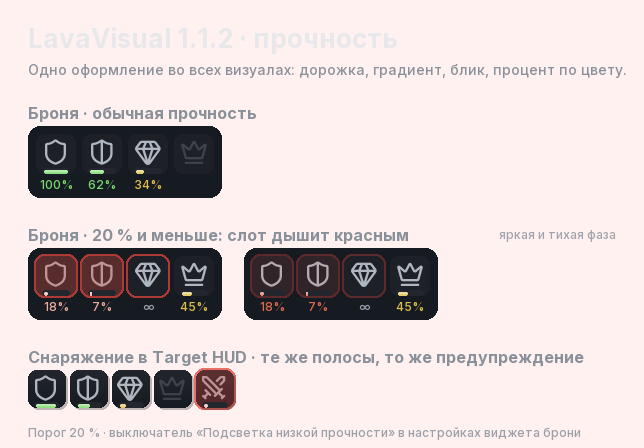
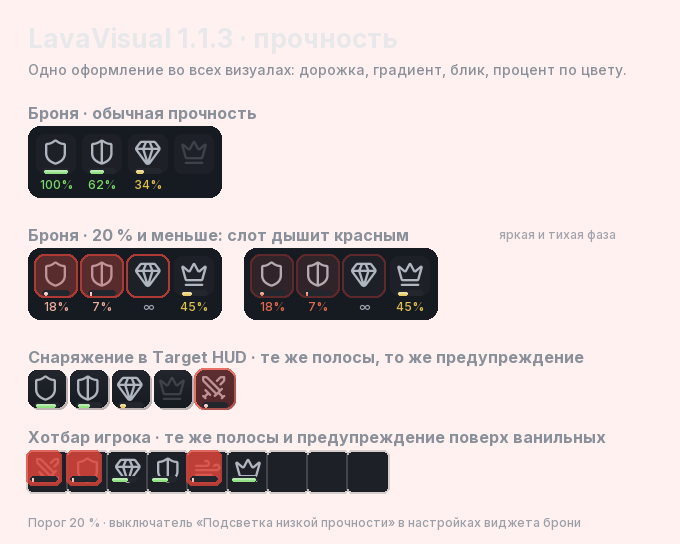
Прочность 1.1.3: украшенные полосы и предупреждение в хотбаре игрока
- hud/HudRenderer.java (все три порта): новый hotbarDurability() рисует поверх ванильного хотбара
  ту же полосу, что броня и снаряжение (дорожка 14x3, градиент, блик), и то же предупреждение:
  при 20 % и меньше слот дышит красным (рамка + подсветка), цвет светлеет по пульсу; только у
  повреждённых предметов, уважает hideGui, спектатора и выключатель durabilityWarn;
- LavaVisualClient.java: слой после VanillaHudElements.HOTBAR в 26.2 и 1.21.11, вызов в
  HudRenderCallback в 1.21.4 (там колбэк идёт уже после ванильного HUD);
- SmokeWorld.java (26.2, 1.21.11): этап HOTBAR_AT кладёт в слоты повреждённые кирку, нагрудник,
  меч, щит и элитры (плюс целый меч и стопку яблок) и просит кадр world_hotbar — проверка в CI;
- версии 1.1.3, README, release-notes и OVERVIEW обновлены, макет tools/preview_durability.py
  дополнен рядом хотбара.

Changed region(s): [[0.0311, 0.125, 0.9627, 1.0], [0.7764, 0.5, 0.9627, 0.5312], [0.7453, 0.4062, 0.9006, 0.4375]]

diff --git a/tools/preview_durability.py b/tools/preview_durability.py
@@ -5,8 +5,9 @@ The HUD cannot be looked at without launching Minecraft, and the strips live dee
 draws them with PIL instead, using exactly the geometry and the colours of the mod: the armour widget (4 slots of
 20 x 20 with a step of 23), the equipment strip of the Target HUD (slots of 19 x 19 with a step of 21), the track of
 14 x 3 and 13 x 3, the one-unit highlight, the percent text, and the low-durability warning (the red rim stays under the
-slot plate, the breathing wash goes over the item, the percent brightens with the pulse). The pulse is drawn at its
-brightest phase.
+slot plate, the breathing wash goes over the item, the percent brightens with the pulse). The hotbar slots of the
+player are drawn the same way, over the vanilla hotbar: 20 px step, 16 px icon, the strip at the bottom of the icon.
+The pulse is drawn at its brightest phase.
 
     python3 tools/preview_durability.py [out.png (default docs/durability-preview.png)]
 
@@ -90,6 +91,25 @@ def gear_slot(view, x, y, ratio, pulse=1.0, warn=True, sprite=None):
     view.rr(x + 4, y + 17, fill, 1, 0, 0xFFFFFF, 0.35)
 
 
+def hotbar_slot(view, x, y, ratio, pulse=1.0, warn=True, icon=None):
+    """One hotbar slot of the player, in the order of HudRenderer.hotbarDurability()."""
+    low = ratio is not None and ratio >= 0 and ratio <= 0.2 and warn
+    view.rr(x - 1, y - 1, 22, 22, 3, 0x8B8B8B, 0.35)
+    view.rr(x, y, 20, 20, 2, 0x1D2027, 1.0)
+    if icon:
+        view.icon(icon, x + 3, y + 2, 14, 0xC9D0DA, 0.85)
+    if ratio is None or ratio < 0:
+        return
+    if low:
+        view.rr(x - 1, y - 1, 18, 18, 3, WARN, 0.35 + 0.4 * pulse)
+        view.rr(x, y, 16, 16, 2, WARN, 0.10 + 0.20 * pulse)
+    color = shown(durability(ratio), pulse) if low else durability(ratio)
+    view.rr(x + 1, y + 12, 14, 3, 1, TRACK)
+    bar = max(1, round(12 * ratio))
+    view.rrh(x + 2, y + 13, bar, 2, 1, color, mix(color, 0xFFFFFF, 0.35))
+    view.rr(x + 2, y + 13, bar, 1, 0, 0xFFFFFF, 0.35)
+
+
 def armor_widget(view, x, y, ratios, pulse=1.0, warn=True):
     view.rr(x, y, 97, 36, 6, PANEL)
     for i, ratio in enumerate(ratios):
@@ -103,10 +123,10 @@ def gear_strip(view, x, y, ratios, pulse=1.0, warn=True):
 
 def main():
     out = Path(sys.argv[1]) if len(sys.argv) > 1 else OUT
-    view = View(322, 224)
-    view.img.paste(0x101319FF, (0, 0, 322 * SS, 224 * SS))
+    view = View(340, 272)
+    view.img.paste(0x101319FF, (0, 0, 340 * SS, 272 * SS))
 
-    view.text(14, 12, 'LavaVisual 1.1.2 · прочность', TEXT, 1.0, size=13, bold=True)
+    view.text(14, 12, 'LavaVisual 1.1.3 · прочность', TEXT, 1.0, size=13, bold=True)
     view.text(14, 31, 'Одно оформление во всех визуалах: дорожка, градиент, блик, процент по цвету.', DIM, 1.0, size=7)
 
     view.text(14, 52, 'Броня · обычная прочность', DIM, 1.0, size=8, bold=True)
@@ -120,7 +140,12 @@ def main():
     view.text(14, 174, 'Снаряжение в Target HUD · те же полосы, то же предупреждение', DIM, 1.0, size=8, bold=True)
     gear_strip(view, 14, 185, [0.9, 0.55, 0.3, None, 0.15])
 
-    view.text(14, 213, 'Порог 20 % · выключатель «Подсветка низкой прочности» в настройках виджета брони', DIM, 0.85, size=6)
+    view.text(14, 214, 'Хотбар игрока · те же полосы и предупреждение поверх ванильных', DIM, 1.0, size=8, bold=True)
+    hotbar = [(0.10, 'SWORDS'), (0.12, 'SHIELD'), (0.70, 'GEM'), (0.64, 'SHIELD_HALF'), (0.06, 'WIND'), (1.0, 'CROWN'), (None, 'APPLE'), (None, None), (None, None)]
+    for i, (ratio, icon) in enumerate(hotbar):
+        hotbar_slot(view, 14 + i * 20, 226, ratio, 1.0, True, icon)
+
+    view.text(14, 258, 'Порог 20 % · выключатель «Подсветка низкой прочности» в настройках виджета брони', DIM, 0.85, size=6)
     view.img.save(out)
     print(f'{out} -> {out.stat().st_size // 1024} KB')
 

diff --git a/ports/mc26.2/src/main/java/tech/gulp/lavavisual/SmokeWorld.java b/ports/mc26.2/src/main/java/tech/gulp/lavavisual/SmokeWorld.java
@@ -16,7 +16,8 @@ final class SmokeWorld {
             DUMMY_AT = HATS_AT + HATS.length * HAT_STEP + 10, HANDS_AT = DUMMY_AT + 70, CRIT_AT = HANDS_AT + 50,
             TRAIL_AT = CRIT_AT + 50, ZOOM_AT = TRAIL_AT + 95, FREE_AT = ZOOM_AT + 40, WINGS_EDIT_AT = FREE_AT + 40,
             MAP_AT = WINGS_EDIT_AT + 45, SOUND_AT = MAP_AT + 110, MUSIC_AT = SOUND_AT + 12, FORMATS_AT = MUSIC_AT + 72, TIME_AT = FORMATS_AT + 104, ITEMS_AT = TIME_AT + 80,
-            PROJ_AT = ITEMS_AT + 70, OUTFIT_AT = PROJ_AT + 50, SHOTS_AT = OUTFIT_AT + 94, END_AT = SHOTS_AT + 234;
+            PROJ_AT = ITEMS_AT + 70, OUTFIT_AT = PROJ_AT + 50, SHOTS_AT = OUTFIT_AT + 94, HOTBAR_AT = SHOTS_AT + 216,
+            END_AT = SHOTS_AT + 264;
     private static float walkLift;
     private static double p1, p2, p3, p4;
     private static boolean musicPlaying, musicPaused, musicStable, musicSeek, musicNext, musicPrevious;
@@ -468,6 +469,20 @@ final class SmokeWorld {
         if (ticks == SHOTS_AT + 170) mc.gui.setScreen(new net.minecraft.client.gui.screens.multiplayer.JoinMultiplayerScreen(null));
         if (ticks == SHOTS_AT + 200) LavaVisual.LOGGER.info("LavaVisual smoke shot world_servers");
         if (ticks == SHOTS_AT + 214) { mc.gui.setScreen(null); c.extras.clear(); mc.options.setCameraType(CameraType.THIRD_PERSON_BACK); }
+
+        // Hotbar durability: a worn tool, armor, a shield and an elytra in the slots (plus a whole sword and a
+        // stack that cannot wear), so the strips and the low-durability warning are photographed in the real
+        // renderer. The world was created with cheats on, so plain commands are enough.
+        if (ticks == HOTBAR_AT) {
+            player.connection.sendCommand("item replace entity @s hotbar.0 with minecraft:diamond_pickaxe[minecraft:damage=1400]");
+            player.connection.sendCommand("item replace entity @s hotbar.1 with minecraft:iron_chestplate[minecraft:damage=210]");
+            player.connection.sendCommand("item replace entity @s hotbar.2 with minecraft:netherite_sword[minecraft:damage=600]");
+            player.connection.sendCommand("item replace entity @s hotbar.3 with minecraft:shield[minecraft:damage=120]");
+            player.connection.sendCommand("item replace entity @s hotbar.4 with minecraft:elytra[minecraft:damage=405]");
+            player.connection.sendCommand("item replace entity @s hotbar.5 with minecraft:diamond_sword");
+            player.connection.sendCommand("item replace entity @s hotbar.6 with minecraft:golden_apple 3");
+        }
+        if (ticks == HOTBAR_AT + 25) LavaVisual.LOGGER.info("LavaVisual smoke shot world_hotbar");
 
         if (ticks == END_AT) finish(null);
         if (ticks == END_AT) finish(null);

diff --git a/ports/mc1.21.11/src/main/java/tech/gulp/lavavisual/SmokeWorld.java b/ports/mc1.21.11/src/main/java/tech/gulp/lavavisual/SmokeWorld.java
@@ -16,7 +16,8 @@ final class SmokeWorld {
             DUMMY_AT = HATS_AT + HATS.length * HAT_STEP + 10, HANDS_AT = DUMMY_AT + 70, CRIT_AT = HANDS_AT + 50,
             TRAIL_AT = CRIT_AT + 50, ZOOM_AT = TRAIL_AT + 95, FREE_AT = ZOOM_AT + 40, WINGS_EDIT_AT = FREE_AT + 40,
             MAP_AT = WINGS_EDIT_AT + 45, SOUND_AT = MAP_AT + 110, MUSIC_AT = SOUND_AT + 12, FORMATS_AT = MUSIC_AT + 72, TIME_AT = FORMATS_AT + 104, ITEMS_AT = TIME_AT + 80,
-            PROJ_AT = ITEMS_AT + 70, OUTFIT_AT = PROJ_AT + 50, SHOTS_AT = OUTFIT_AT + 94, END_AT = SHOTS_AT + 234;
+            PROJ_AT = ITEMS_AT + 70, OUTFIT_AT = PROJ_AT + 50, SHOTS_AT = OUTFIT_AT + 94, HOTBAR_AT = SHOTS_AT + 216,
+            END_AT = SHOTS_AT + 264;
     private static float walkLift;
     private static double p1, p2, p3, p4;
     private static boolean musicPlaying, musicPaused, musicStable, musicSeek, musicNext, musicPrevious;
@@ -467,6 +468,20 @@ final class SmokeWorld {
         if (ticks == SHOTS_AT + 170) mc.setScreen(new net.minecraft.client.gui.screens.multiplayer.JoinMultiplayerScreen(null));
         if (ticks == SHOTS_AT + 200) LavaVisual.LOGGER.info("LavaVisual smoke shot world_servers");
         if (ticks == SHOTS_AT + 214) { mc.setScreen(null); c.extras.clear(); mc.options.setCameraType(CameraType.THIRD_PERSON_BACK); }
+
+        // Hotbar durability: a worn tool, armor, a shield and an elytra in the slots (plus a whole sword and a
+        // stack that cannot wear), so the strips and the low-durability warning are photographed in the real
+        // renderer. The world was created with cheats on, so plain commands are enough.
+        if (ticks == HOTBAR_AT) {
+            player.connection.sendCommand("item replace entity @s hotbar.0 with minecraft:diamond_pickaxe[minecraft:damage=1400]");
+            player.connection.sendCommand("item replace entity @s hotbar.1 with minecraft:iron_chestplate[minecraft:damage=210]");
+            player.connection.sendCommand("item replace entity @s hotbar.2 with minecraft:netherite_sword[minecraft:damage=600]");
+            player.connection.sendCommand("item replace entity @s hotbar.3 with minecraft:shield[minecraft:damage=120]");
+            player.connection.sendCommand("item replace entity @s hotbar.4 with minecraft:elytra[minecraft:damage=405]");
+            player.connection.sendCommand("item replace entity @s hotbar.5 with minecraft:diamond_sword");
+            player.connection.sendCommand("item replace entity @s hotbar.6 with minecraft:golden_apple 3");
+        }
+        if (ticks == HOTBAR_AT + 25) LavaVisual.LOGGER.info("LavaVisual smoke shot world_hotbar");
 
         if (ticks == END_AT) finish(null);
         if (ticks == END_AT) finish(null);

diff --git a/ports/mc26.2/src/main/java/tech/gulp/lavavisual/hud/HudRenderer.java b/ports/mc26.2/src/main/java/tech/gulp/lavavisual/hud/HudRenderer.java
@@ -298,6 +298,38 @@ public final class HudRenderer {
         return 0.5 + 0.5 * Math.sin(System.nanoTime() / 300_000_000.0);
     }
 
+    /**
+     * Hotbar slots of the player: the very same decorated strip and the same low-durability warning as the armor
+     * widget and the equipment strip, drawn over the vanilla hotbar. Only damaged items get a strip, exactly like
+     * vanilla, and the geometry follows the vanilla slot: 20 px step, 16 px icon, strip at the bottom of the icon.
+     */
+    public static void hotbarDurability(GuiGraphicsExtractor g) {
+        Minecraft mc = Minecraft.getInstance();
+        HudConfig c = LavaVisualClient.config();
+        if (mc.player == null || mc.options.hideGui || mc.player.isSpectator()) return;
+        var inventory = mc.player.getInventory();
+        double pulse = warnPulse();
+        int left = g.guiWidth() / 2 - 91, y = g.guiHeight() - 19;
+        for (int i = 0; i < 9; i++) {
+            ItemStack stack = inventory.getItem(i);
+            if (stack.isEmpty() || !stack.isDamageableItem() || stack.getMaxDamage() <= 0) continue;
+            double ratio = Math.clamp(1 - (double) stack.getDamageValue() / stack.getMaxDamage(), 0, 1);
+            if (ratio >= 1) continue;
+            int x = left + 3 + i * 20;
+            boolean low = ratio <= WARN_BELOW && c.durabilityWarn;
+            if (low) {
+                UiDraw.round(g, x - 1, y - 1, 18, 18, 3, UiDraw.alpha(WARN_COLOR, 0.35 + 0.4 * pulse));
+                UiDraw.round(g, x, y, 16, 16, 2, UiDraw.alpha(WARN_COLOR, 0.10 + 0.20 * pulse));
+            }
+            int color = durability(ratio);
+            if (low) color = UiDraw.mix(color, 0xFFFFFF, 0.45 * pulse);
+            UiDraw.round(g, x + 1, y + 12, 14, 3, 1, 0xFF23262D);
+            int bar = Math.max(1, (int) Math.round(12 * ratio));
+            UiDraw.roundH(g, x + 2, y + 13, bar, 2, 1, color, UiDraw.mix(color, 0xFFFFFF, 0.35));
+            g.fill(x + 2, y + 13, x + 1 + bar, y + 13, UiDraw.alpha(0xFFFFFF, 0.35));
+        }
+    }
+
     /** Armor: the actual pieces, durability strip and percent; vanilla slot silhouettes when empty. */
     private static void armor(GuiGraphicsExtractor g, Minecraft mc, HudConfig c, HudConfig.Widget w, int accent, int accent2) {
         int bw = 97, bh = 36;

diff --git a/ports/mc1.21.11/src/main/java/tech/gulp/lavavisual/hud/HudRenderer.java b/ports/mc1.21.11/src/main/java/tech/gulp/lavavisual/hud/HudRenderer.java
@@ -298,6 +298,38 @@ public final class HudRenderer {
         return 0.5 + 0.5 * Math.sin(System.nanoTime() / 300_000_000.0);
     }
 
+    /**
+     * Hotbar slots of the player: the very same decorated strip and the same low-durability warning as the armor
+     * widget and the equipment strip, drawn over the vanilla hotbar. Only damaged items get a strip, exactly like
+     * vanilla, and the geometry follows the vanilla slot: 20 px step, 16 px icon, strip at the bottom of the icon.
+     */
+    public static void hotbarDurability(GuiGraphics g) {
+        Minecraft mc = Minecraft.getInstance();
+        HudConfig c = LavaVisualClient.config();
+        if (mc.player == null || mc.options.hideGui || mc.player.isSpectator()) return;
+        var inventory = mc.player.getInventory();
+        double pulse = warnPulse();
+        int left = g.guiWidth() / 2 - 91, y = g.guiHeight() - 19;
+        for (int i = 0; i < 9; i++) {
+            ItemStack stack = inventory.getItem(i);
+            if (stack.isEmpty() || !stack.isDamageableItem() || stack.getMaxDamage() <= 0) continue;
+            double ratio = Math.clamp(1 - (double) stack.getDamageValue() / stack.getMaxDamage(), 0, 1);
+            if (ratio >= 1) continue;
+            int x = left + 3 + i * 20;
+            boolean low = ratio <= WARN_BELOW && c.durabilityWarn;
+            if (low) {
+                UiDraw.round(g, x - 1, y - 1, 18, 18, 3, UiDraw.alpha(WARN_COLOR, 0.35 + 0.4 * pulse));
+                UiDraw.round(g, x, y, 16, 16, 2, UiDraw.alpha(WARN_COLOR, 0.10 + 0.20 * pulse));
+            }
+            int color = durability(ratio);
+            if (low) color = UiDraw.mix(color, 0xFFFFFF, 0.45 * pulse);
+            UiDraw.round(g, x + 1, y + 12, 14, 3, 1, 0xFF23262D);
+            int bar = Math.max(1, (int) Math.round(12 * ratio));
+            UiDraw.roundH(g, x + 2, y + 13, bar, 2, 1, color, UiDraw.mix(color, 0xFFFFFF, 0.35));
+            g.fill(x + 2, y + 13, x + 1 + bar, y + 13, UiDraw.alpha(0xFFFFFF, 0.35));
+        }
+    }
+
     /** Armor: the actual pieces, durability strip and percent; vanilla slot silhouettes when empty. */
     private static void armor(GuiGraphics g, Minecraft mc, HudConfig c, HudConfig.Widget w, int accent, int accent2) {
         int bw = 97, bh = 36;

diff --git a/ports/mc1.21.4/src/main/java/tech/gulp/lavavisual/hud/HudRenderer.java b/ports/mc1.21.4/src/main/java/tech/gulp/lavavisual/hud/HudRenderer.java
@@ -297,6 +297,38 @@ public final class HudRenderer {
         return 0.5 + 0.5 * Math.sin(System.nanoTime() / 300_000_000.0);
     }
 
+    /**
+     * Hotbar slots of the player: the very same decorated strip and the same low-durability warning as the armor
+     * widget and the equipment strip, drawn over the vanilla hotbar. Only damaged items get a strip, exactly like
+     * vanilla, and the geometry follows the vanilla slot: 20 px step, 16 px icon, strip at the bottom of the icon.
+     */
+    public static void hotbarDurability(GuiGraphics g) {
+        Minecraft mc = Minecraft.getInstance();
+        HudConfig c = LavaVisualClient.config();
+        if (mc.player == null || mc.options.hideGui || mc.player.isSpectator()) return;
+        var inventory = mc.player.getInventory();
+        double pulse = warnPulse();
+        int left = g.guiWidth() / 2 - 91, y = g.guiHeight() - 19;
+        for (int i = 0; i < 9; i++) {
+            ItemStack stack = inventory.getItem(i);
+            if (stack.isEmpty() || !stack.isDamageableItem() || stack.getMaxDamage() <= 0) continue;
+            double ratio = Math.clamp(1 - (double) stack.getDamageValue() / stack.getMaxDamage(), 0, 1);
+            if (ratio >= 1) continue;
+            int x = left + 3 + i * 20;
+            boolean low = ratio <= WARN_BELOW && c.durabilityWarn;
+            if (low) {
+                UiDraw.round(g, x - 1, y - 1, 18, 18, 3, UiDraw.alpha(WARN_COLOR, 0.35 + 0.4 * pulse));
+                UiDraw.round(g, x, y, 16, 16, 2, UiDraw.alpha(WARN_COLOR, 0.10 + 0.20 * pulse));
+            }
+            int color = durability(ratio);
+            if (low) color = UiDraw.mix(color, 0xFFFFFF, 0.45 * pulse);
+            UiDraw.round(g, x + 1, y + 12, 14, 3, 1, 0xFF23262D);
+            int bar = Math.max(1, (int) Math.round(12 * ratio));
+            UiDraw.roundH(g, x + 2, y + 13, bar, 2, 1, color, UiDraw.mix(color, 0xFFFFFF, 0.35));
+            g.fill(x + 2, y + 13, x + 1 + bar, y + 13, UiDraw.alpha(0xFFFFFF, 0.35));
+        }
+    }
+
     /** Armor: the actual pieces, durability strip and percent; vanilla slot silhouettes when empty. */
     private static void armor(GuiGraphics g, Minecraft mc, HudConfig c, HudConfig.Widget w, int accent, int accent2) {
         int bw = 97, bh = 36;

diff --git a/ports/mc1.21.11/src/main/java/tech/gulp/lavavisual/LavaVisualClient.java b/ports/mc1.21.11/src/main/java/tech/gulp/lavavisual/LavaVisualClient.java
@@ -208,6 +208,9 @@ public final class LavaVisualClient implements ClientModInitializer {
             }
         });
         HudElementRegistry.attachElementBefore(VanillaHudElements.CHAT, id("widgets"), (g, delta) -> { HudRenderer.partial = delta.getGameTimeDeltaPartialTick(false); HudRenderer.draw(g, false, null); });
+        // The vanilla hotbar draws its own durability strips; ours go on top, right after it.
+        HudElementRegistry.attachElementAfter(VanillaHudElements.HOTBAR, id("hotbar_durability"),
+                (g, delta) -> HudRenderer.hotbarDurability(g));
         HudElementRegistry.replaceElement(VanillaHudElements.CROSSHAIR, original -> (g, delta) -> {
             Minecraft client = Minecraft.getInstance();
             if (!config.crosshairEnabled || client.player == null || client.player.isSpectator()

diff --git a/ports/mc26.2/src/main/java/tech/gulp/lavavisual/LavaVisualClient.java b/ports/mc26.2/src/main/java/tech/gulp/lavavisual/LavaVisualClient.java
@@ -195,6 +195,9 @@ public final class LavaVisualClient implements ClientModInitializer {
             }
         });
         HudElementRegistry.attachElementBefore(VanillaHudElements.CHAT, id("widgets"), (g, delta) -> { HudRenderer.partial = delta.getGameTimeDeltaPartialTick(false); HudRenderer.draw(g, false, null); });
+        // The vanilla hotbar draws its own durability strips; ours go on top, right after it.
+        HudElementRegistry.attachElementAfter(VanillaHudElements.HOTBAR, id("hotbar_durability"),
+                (g, delta) -> HudRenderer.hotbarDurability(g));
         HudElementRegistry.replaceElement(VanillaHudElements.CROSSHAIR, original -> (g, delta) -> {
             Minecraft client = Minecraft.getInstance();
             if (!config.crosshairEnabled || client.player == null || client.player.isSpectator()

diff --git a/ports/mc1.21.4/src/main/java/tech/gulp/lavavisual/LavaVisualClient.java b/ports/mc1.21.4/src/main/java/tech/gulp/lavavisual/LavaVisualClient.java
@@ -209,6 +209,8 @@ public final class LavaVisualClient implements ClientModInitializer {
         HudRenderCallback.EVENT.register((g, delta) -> {
             HudRenderer.partial = delta.getGameTimeDeltaPartialTick(false);
             HudRenderer.draw(g, false, null);
+            // The vanilla hotbar draws its own durability strips; ours go on top.
+            HudRenderer.hotbarDurability(g);
             Minecraft client = Minecraft.getInstance();
             if (config.crosshairEnabled && client.player != null && !client.player.isSpectator()
                     && client.options.getCameraType().isFirstPerson()) HudRenderer.crosshair(g);

diff --git a/README.md b/README.md
@@ -1,4 +1,4 @@
-# LavaVisual 1.1.2 — Minecraft 26.2
+# LavaVisual 1.1.3 — Minecraft 26.2
 
 <img src="ports/mc26.2/src/main/resources/assets/lavavisual/icon.png" width="96" alt="LV">
 
@@ -7,9 +7,9 @@
 
 | | Скачать | Что внутри |
 | --- | --- | --- |
-| **Мод** | [lavavisual-1.1.2-mc26.2.jar](artifacts/lavavisual-1.1.2-mc26.2.jar) | только LavaVisual, в папку `mods` |
-| **Клиент** | [LavaVisual-Client-1.1.2-mc26.2.mrpack](artifacts/LavaVisual-Client-1.1.2-mc26.2.mrpack) | готовая сборка для Modrinth App, Prism Launcher, ATLauncher |
-| **Клиент (архив)** | [LavaVisual-Client-1.1.2-mc26.2.zip](artifacts/LavaVisual-Client-1.1.2-mc26.2.zip) | папки `mods` и `config` для TLauncher, телефонов и ручной установки |
+| **Мод** | [lavavisual-1.1.3-mc26.2.jar](artifacts/lavavisual-1.1.3-mc26.2.jar) | только LavaVisual, в папку `mods` |
+| **Клиент** | [LavaVisual-Client-1.1.3-mc26.2.mrpack](artifacts/LavaVisual-Client-1.1.3-mc26.2.mrpack) | готовая сборка для Modrinth App, Prism Launcher, ATLauncher |
+| **Клиент (архив)** | [LavaVisual-Client-1.1.3-mc26.2.zip](artifacts/LavaVisual-Client-1.1.3-mc26.2.zip) | папки `mods` и `config` для TLauncher, телефонов и ручной установки |
 
 Контрольные суммы — в [SHA256SUMS](artifacts/SHA256SUMS).
 
@@ -74,9 +74,9 @@ PojavLauncher, MojoLauncher, Amethyst и другие лаунчеры на ос
 
 - **HUD:** водяной знак, Target HUD с аватаром, клавиши с CPS, броня, тотемы, координаты, музыка. Элементы
   перетаскиваются и меняют размер, шрифт HUD выбирается.
-- **Прочность:** полосы прочности брони и предметов оформлены одинаково — скруглённая дорожка, градиент и
-  блик; процент меняет цвет. Когда остаётся 20 % и меньше, слот «дышит» красным (отключается в настройках
-  виджета брони).
+- **Прочность:** полосы прочности брони, снаряжения в Target HUD и предметов в хотбаре оформлены одинаково —
+  скруглённая дорожка, градиент и блик; процент меняет цвет. Когда остаётся 20 % и меньше, слот «дышит»
+  красным (отключается в настройках виджета брони).
 - **Косметика:** 14 шляп и 5 видов объёмных крыльев с редакторами (размер, положение, взмахи, цвет), 6 плащей с
   физикой ткани (развеваются от бега, прыжков и поворотов, с подкладкой), аксессуары (очки, наушники, шарф), следы.
   Хвост шарфа раскачивается, крылья отводятся назад на бегу и приподнимаются в падении. Косметика не врезается в

diff --git a/.github/release-notes.md b/.github/release-notes.md
@@ -6,12 +6,20 @@
 
 | Файл | Кому |
 | --- | --- |
-| `lavavisual-1.1.2-mc<версия>.jar` | мод: закинуть в папку `mods` (Fabric или Quilt, нужен Fabric API) |
-| `LavaVisual-Client-1.1.2-mc<версия>.zip` | готовый клиент целиком, если мод ещё не установлен |
-| `LavaVisual-Client-1.1.2-mc<версия>.mrpack` | установка через Modrinth App, Prism или ATLauncher |
+| `lavavisual-1.1.3-mc<версия>.jar` | мод: закинуть в папку `mods` (Fabric или Quilt, нужен Fabric API) |
+| `LavaVisual-Client-1.1.3-mc<версия>.zip` | готовый клиент целиком, если мод ещё не установлен |
+| `LavaVisual-Client-1.1.3-mc<версия>.mrpack` | установка через Modrinth App, Prism или ATLauncher |
 | `SHA256SUMS` | контрольные суммы всех файлов |
 
 Версия Minecraft указана в имени файла: `mc26.2`, `mc1.21.11`, `mc1.21.4`.
+
+## Что нового в 1.1.3
+
+- **Прочность в хотбаре.** Слоты хотбара игрока получили ту же украшенную полосу, что броня и снаряжение:
+  скруглённая дорожка, градиент и блик. Полоса рисуется поверх ванильной и только у повреждённых предметов.
+- **Предупреждение о низкой прочности теперь и в хотбаре:** при 20 % и меньше слот мягко дышит красным —
+  рамка и подсветка поверх предмета, цвет полосы светлеет. Выключается тем же переключателем «Подсветка низкой
+  прочности» в настройках виджета брони.
 
 ## Что нового в 1.1.2
 
